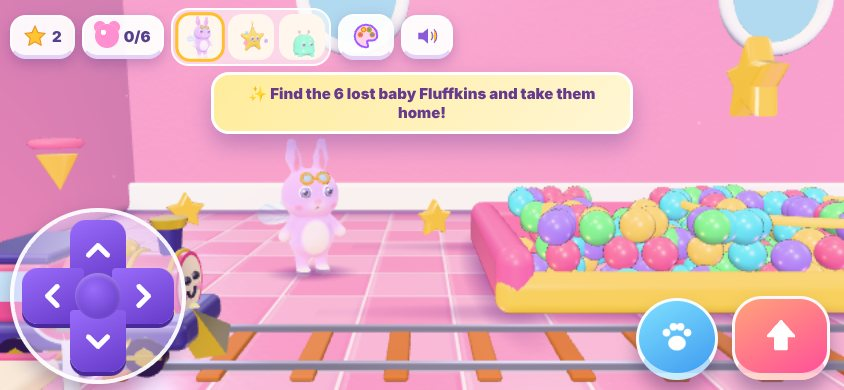
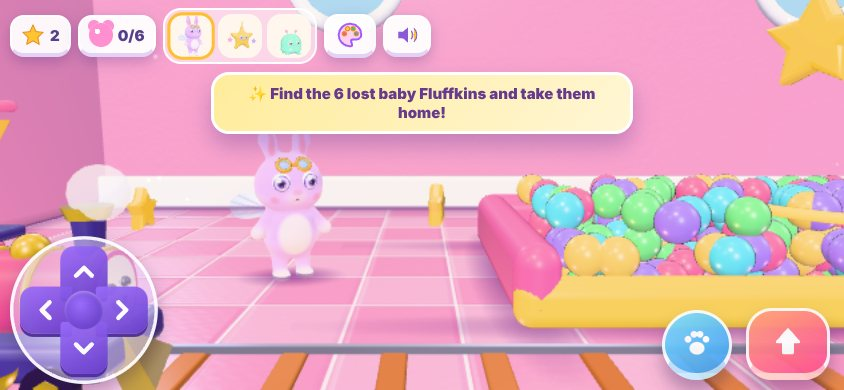
Discovery World 3D: keep the arrow buttons at least 50px (a little bigger pad); screenshots
Claude-Session: https://claude.ai/code/session_01CGjfLEz37FPAr1F9TUD5NY

diff --git a/discovery-world/3d/src/style.css b/discovery-world/3d/src/style.css
@@ -100,8 +100,8 @@ button{font-family:inherit;cursor:pointer;touch-action:manipulation}
 .swatch.tool{font-size:22px;line-height:36px;text-align:center;box-shadow:inset 0 0 0 2px #e1d2f6}
 
 /* build 16: smaller, softer controls so more of the world shows (still big enough for small fingers) */
-.dpad{transform:scale(.84);transform-origin:bottom left}
-@media (max-height:360px){.dpad{transform:scale(.74)}}
+.dpad{transform:scale(.92);transform-origin:bottom left}
+@media (max-height:360px){.dpad{transform:scale(.84)}}
 .ctrl.paw{width:70px;height:70px}.ctrl.paw svg{width:36px;height:36px}
 .ctrl.jump{width:84px;height:72px;border-radius:26px}.ctrl.jump svg{width:38px;height:38px}
 .ctrl{opacity:.93}
